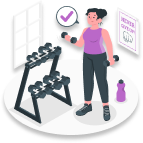
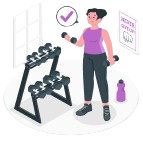
Added BMI Calculator Functionality
- Added dynamic interface for BMI calculation including age, weight, height, and gender inputs.
- Created functions for initializing the calculator, updating values, and calculating BMI with results displayed.
- Updated dashboard.html to link to the new BMI calculator interface.
- Replaced BMI image with updated version in the images directory.

diff --git a/jscript/alert.js b/jscript/alert.js
@@ -325,3 +325,262 @@ window.AlertFunctions = {
     showAIAnalysis,
     saveResults
 };
+
+/* ---------------------------------------------------- */
+/* BMI Calculator Functions - Dynamic Interface */
+/* ---------------------------------------------------- */
+
+/**
+ * Initialize BMI Calculator display
+ */
+function initializeBMICalculator() {
+    const diagnosisList = document.getElementById('diagnosisList');
+    if (!diagnosisList) {
+        console.error('Diagnosis list container not found');
+        return;
+    }
+
+    // Clear existing content
+    diagnosisList.innerHTML = '';
+    
+    // Create BMI calculator interface
+    createBMIInterface();
+}
+
+/**
+ * Create the complete BMI calculator interface
+ */
+function createBMIInterface() {
+    const diagnosisList = document.getElementById('diagnosisList');
+    
+    // BMI State - Updated default values
+    const bmiState = {
+        age: 25,
+        weight: 65,
+        height: 170,
+        isMale: false
+    };
+
+    // Create Age and Weight Grid
+    const ageWeightGrid = createAgeWeightGrid(bmiState);
+    diagnosisList.appendChild(ageWeightGrid);
+
+    // Create Height Card
+    const heightCard = createHeightCard(bmiState);
+    diagnosisList.appendChild(heightCard);
+
+    // Create Gender Card
+    const genderCard = createGenderCard(bmiState);
+    diagnosisList.appendChild(genderCard);
+
+    // Create Calculate Button
+    const calculateButton = createCalculateButton(bmiState);
+    diagnosisList.appendChild(calculateButton);
+}
+
+/**
+ * Create Age and Weight grid cards
+ */
+function createAgeWeightGrid(bmiState) {
+    const gridContainer = document.createElement('div');
+    gridContainer.className = 'col-span-2 grid grid-cols-2 gap-4 mb-4';
+
+    // Age Card - Added black border
+    const ageCard = document.createElement('div');
+    ageCard.className = 'bg-teal-500 border-2 border-black rounded-xl p-6 text-white text-center';
+    ageCard.innerHTML = `
+        <label class="block text-sm font-medium mb-4">Age</label>
+        <div id="ageValue" class="text-4xl font-bold mb-4">${bmiState.age}</div>
+        <div class="flex justify-center items-center space-x-6">
+            <button id="ageDecrement" class="w-10 h-10 bg-teal-600 rounded-lg flex items-center justify-center hover:bg-teal-700 transition">
+                <i class="fas fa-minus text-lg"></i>
+            </button>
+            <button id="ageIncrement" class="w-10 h-10 bg-teal-600 rounded-lg flex items-center justify-center hover:bg-teal-700 transition">
+                <i class="fas fa-plus text-lg"></i>
+            </button>
+        </div>
+    `;
+
+    // Weight Card - Added black border
+    const weightCard = document.createElement('div');
+    weightCard.className = 'bg-teal-500 border-2 border-black rounded-xl p-6 text-white text-center';
+    weightCard.innerHTML = `
+        <label class="block text-sm font-medium mb-4">Weight(KG)</label>
+        <div id="weightValue" class="text-4xl font-bold mb-4">${bmiState.weight}</div>
+        <div class="flex justify-center items-center space-x-6">
+            <button id="weightDecrement" class="w-10 h-10 bg-teal-600 rounded-lg flex items-center justify-center hover:bg-teal-700 transition">
+                <i class="fas fa-minus text-lg"></i>
+            </button>
+            <button id="weightIncrement" class="w-10 h-10 bg-teal-600 rounded-lg flex items-center justify-center hover:bg-teal-700 transition">
+                <i class="fas fa-plus text-lg"></i>
+            </button>
+        </div>
+    `;
+
+    gridContainer.appendChild(ageCard);
+    gridContainer.appendChild(weightCard);
+
+    // Add event listeners for age
+    setTimeout(() => {
+        document.getElementById('ageDecrement').addEventListener('click', () => {
+            if (bmiState.age > 1) {
+                bmiState.age--;
+                document.getElementById('ageValue').textContent = bmiState.age;
+            }
+        });
+        document.getElementById('ageIncrement').addEventListener('click', () => {
+            if (bmiState.age < 120) {
+                bmiState.age++;
+                document.getElementById('ageValue').textContent = bmiState.age;
+            }
+        });
+
+        // Add event listeners for weight
+        document.getElementById('weightDecrement').addEventListener('click', () => {
+            if (bmiState.weight > 1) {
+                bmiState.weight--;
+                document.getElementById('weightValue').textContent = bmiState.weight;
+            }
+        });
+        document.getElementById('weightIncrement').addEventListener('click', () => {
+            if (bmiState.weight < 300) {
+                bmiState.weight++;
+                document.getElementById('weightValue').textContent = bmiState.weight;
+            }
+        });
+    }, 10);
+
+    return gridContainer;
+}
+
+/**
+ * Create Height card with slider
+ */
+function createHeightCard(bmiState) {
+    const heightCard = document.createElement('div');
+    heightCard.className = 'col-span-2 bg-teal-500 border-2 border-black rounded-xl p-6 text-white mb-4';
+    heightCard.innerHTML = `
+        <label class="block text-sm font-medium mb-4 text-center">Height (CM)</label>
+        <div id="heightValue" class="text-4xl font-bold mb-6 text-center">${bmiState.height}</div>
+        <div class="relative">
+            <input type="range" id="heightSlider" min="50" max="300" value="${bmiState.height}" class="w-full h-2 bg-teal-600 rounded-lg appearance-none cursor-pointer">
+            <div class="flex justify-between text-sm mt-2">
+                <span>50 cm</span>
+                <span>300 cm</span>
+            </div>
+        </div>
+    `;
+
+    // Add event listener for height slider
+    setTimeout(() => {
+        document.getElementById('heightSlider').addEventListener('input', (e) => {
+            bmiState.height = parseInt(e.target.value);
+            document.getElementById('heightValue').textContent = bmiState.height;
+        });
+    }, 10);
+
+    return heightCard;
+}
+
+/**
+ * Create Gender card with switch
+ */
+function createGenderCard(bmiState) {
+    const genderCard = document.createElement('div');
+    genderCard.className = 'col-span-2 bg-teal-500 border-2 border-black rounded-xl p-6 text-white mb-4';
+    genderCard.innerHTML = `
+        <label class="block text-sm font-medium mb-4 text-center">Gender</label>
+        <div class="flex items-center justify-center space-x-4">
+            <span class="text-lg">Male</span>
+            <div class="relative">
+                <div id="genderSwitch" class="w-16 h-8 bg-teal-600 rounded-full cursor-pointer transition-all duration-300">
+                    <div id="genderToggle" class="w-6 h-6 ${bmiState.isMale ? 'bg-blue-500' : 'bg-pink-500'} rounded-full mt-1 ml-1 transition-transform duration-300 ease-in-out ${bmiState.isMale ? '' : 'transform translate-x-8'}"></div>
+                </div>
+            </div>
+            <span class="text-lg">Female</span>
+        </div>
+    `;
+
+    // Add event listener for gender switch
+    setTimeout(() => {
+        document.getElementById('genderSwitch').addEventListener('click', () => {
+            bmiState.isMale = !bmiState.isMale;
+            const toggle = document.getElementById('genderToggle');
+            if (bmiState.isMale) {
+                toggle.className = 'w-6 h-6 bg-blue-500 rounded-full mt-1 ml-1 transition-transform duration-300 ease-in-out';
+            } else {
+                toggle.className = 'w-6 h-6 bg-pink-500 rounded-full mt-1 ml-1 transition-transform duration-300 ease-in-out transform translate-x-8';
+            }
+        });
+    }, 10);
+
+    return genderCard;
+}
+
+/**
+ * Create Calculate BMI button
+ */
+function createCalculateButton(bmiState) {
+    const button = document.createElement('button');
+    button.className = 'col-span-2 w-full bg-teal-600 hover:bg-teal-700 text-white font-bold py-4 px-6 rounded-xl transition duration-300 text-lg';
+    button.textContent = 'Calculate BMI';
+
+    button.addEventListener('click', () => {
+        calculateBMI(bmiState);
+    });
+
+    return button;
+}
+
+/**
+ * Calculate and display BMI result
+ */
+function calculateBMI(bmiState) {
+    const heightInMeters = bmiState.height / 100;
+    const bmi = (bmiState.weight / (heightInMeters * heightInMeters)).toFixed(1);
+    
+    let category = '';
+    let color = '';
+    
+    if (bmi < 18.5) {
+        category = 'Underweight';
+        color = 'text-blue-400';
+    } else if (bmi < 25) {
+        category = 'Normal';
+        color = 'text-teal-400';
+    } else if (bmi < 30) {
+        category = 'Overweight';
+        color = 'text-yellow-400';
+    } else {
+        category = 'Obese';
+        color = 'text-red-400';
+    }
+
+    // Display result
+    const diagnosisList = document.getElementById('diagnosisList');
+    diagnosisList.innerHTML = `
+        <div class="col-span-2 text-center text-white">
+            <h2 class="text-2xl font-bold mb-4">BMI Result</h2>
+            <div class="bg-teal-500 rounded-xl p-6 mb-4">
+                <div class="text-4xl font-bold mb-2">${bmi}</div>
+                <div class="text-lg ${color} font-semibold">${category}</div>
+                <div class="text-sm mt-2">Age: ${bmiState.age} | Weight: ${bmiState.weight}kg | Height: ${bmiState.height}cm</div>
+                <div class="text-sm">Gender: ${bmiState.isMale ? 'Male' : 'Female'}</div>
+            </div>
+            <button onclick="initializeBMICalculator()" class="bg-teal-600 hover:bg-teal-700 text-white font-bold py-2 px-4 rounded-lg transition duration-300">
+                Recalculate
+            </button>
+        </div>
+    `;
+}
+
+// Export BMI functions for external use
+window.BMIFunctions = {
+    initializeBMICalculator,
+    calculateBMI
+};
+
+/* ---------------------------------------------------- */
+/* Above: BMI Calculator Functions - Dynamic Interface */
+/* Below: Future Functions can be added here */
+/* ---------------------------------------------------- */

diff --git a/pages/box/bmi.html b/pages/box/bmi.html
@@ -1,0 +1,103 @@
+<!DOCTYPE html>
+<html lang="en">
+<head>
+    <meta charset="UTF-8">
+    <meta name="viewport" content="width=device-width, initial-scale=1.0">
+    <title>MedScan - Heart Alert</title>
+    <link href="https://cdn.jsdelivr.net/npm/tailwindcss@2.2.19/dist/tailwind.min.css" rel="stylesheet">
+    <link rel="stylesheet" href="../../css/common.css">
+    <link rel="stylesheet" href="../../css/dashboard.css">
+    <link rel="icon" type="image/png" href="../../images/logo.png" />
+    <link rel="stylesheet" href="https://cdnjs.cloudflare.com/ajax/libs/font-awesome/6.4.0/css/all.min.css" />
+    <link rel="stylesheet" href="https://cdnjs.cloudflare.com/ajax/libs/normalize/5.0.0/normalize.min.css" />
+
+    <!-- Custom Font Imports -->
+    <link href="https://fonts.googleapis.com/css2?family=Open+Sans&family=Poppins:wght@700&family=Montserrat:wght@700&display=swap" rel="stylesheet" />
+</head>
+
+<body class="bg-[#f1f7ed]">
+    <div class="app-wrapper">
+      <!-- App Content -->
+      <div id="app-content" class="container mx-auto -px-10 -py-10 max-w-screen-lg">
+        <!-- Section 1 - Header -->
+        <section>
+            <header class="bg-transparent flex items-center justify-between px-3 py-4">
+                <a href="/pages/dashboard.html" class="text-white md:text-lg">
+                  <i class="fas fa-arrow-left"></i>
+                </a>
+                <h1 class="text-4xl mx-8 text-center font-bold">BMI Calculator</h1> 
+                <img src="../../images/bmi/bmi.png" class="w-32 h-32" />
+              </header>
+
+              <div class="px-6 py-8 space-y-6">
+                <!-- Age and Weight Grid -->
+                <div class="grid grid-cols-2 gap-4">
+                  <!-- Age Card -->
+                  <div class="bg-teal rounded-xl p-6 text-white text-center">
+                    <label class="block text-sm font-medium mb-4">Age</label>
+                    <div class="text-4xl font-bold mb-4">21</div>
+                    <div class="flex justify-center items-center space-x-6">
+                      <button class="w-10 h-10 bg-teal-600 rounded-lg flex items-center justify-center hover:bg-teal-700 transition">
+                        <i class="fas fa-minus text-lg"></i>
+                      </button>
+                      <button class="w-10 h-10 bg-teal-600 rounded-lg flex items-center justify-center hover:bg-teal-700 transition">
+                        <i class="fas fa-plus text-lg"></i>
+                      </button>
+                    </div>
+                  </div>
+
+                  <!-- Weight Card -->
+                  <div class="bg-teal rounded-xl p-6 text-white text-center">
+                    <label class="block text-sm font-medium mb-4">Weight(KG)</label>
+                    <div class="text-4xl font-bold mb-4">71</div>
+                    <div class="flex justify-center items-center space-x-6">
+                      <button class="w-10 h-10 bg-teal-600 rounded-lg flex items-center justify-center hover:bg-teal-700 transition">
+                        <i class="fas fa-minus text-lg"></i>
+                      </button>
+                      <button class="w-10 h-10 bg-teal-600 rounded-lg flex items-center justify-center hover:bg-teal-700 transition">
+                        <i class="fas fa-plus text-lg"></i>
+                      </button>
+                    </div>
+                  </div>
+                </div>
+
+                <!-- Height Card -->
+                <div class="bg-teal rounded-xl p-6 text-white">
+                  <label class="block text-sm font-medium mb-4 text-center">Height (CM)</label>
+                  <div class="text-4xl font-bold mb-6 text-center">150</div>
+                  <div class="relative">
+                    <input type="range" min="50" max="300" value="150" class="w-full h-2 bg-teal-600 rounded-lg appearance-none cursor-pointer slider">
+                    <div class="flex justify-between text-sm mt-2">
+                      <span>50 cm</span>
+                      <span>300 cm</span>
+                    </div>
+                  </div>
+                </div>
+
+                <!-- Gender Card -->
+                <div class="bg-teal rounded-xl p-6 text-white">
+                  <label class="block text-sm font-medium mb-4 text-center">Gender</label>
+                  <div class="flex items-center justify-center space-x-4">
+                    <span class="text-lg">Male</span>
+                    <div class="relative">
+                      <div class="w-16 h-8 bg-teal-600 rounded-full cursor-pointer">
+                        <div class="w-6 h-6 bg-blue-500 rounded-full mt-1 ml-1 transition-transform duration-300 ease-in-out"></div>
+                      </div>
+                    </div>
+                    <span class="text-lg">Female</span>
+                  </div>
+                </div>
+
+                <!-- Calculate Button -->
+                <button class="w-full bg-teal-600 hover:bg-teal-700 text-white font-bold py-4 px-6 rounded-xl transition duration-300 text-lg">
+                  Calculate BMI
+                </button>
+              </div>
+        </section>
+        <!-- End of Section 1 -->
+      </div>
+    </div>
+
+    <script type="module" src="../../jscript/alert.js"></script>
+</body>
+</html>

diff --git a/pages/dashboard.html b/pages/dashboard.html
@@ -292,7 +292,7 @@
                 </div>
                 
                 <!-- Card 4 - Body Mass Index -->
-                <div class="health-card bg-white rounded-lg p-4 text-center shadow-sm hover:shadow-md transition-all duration-300 cursor-pointer">
+                <div id="bmi-card" class="health-card bg-white rounded-lg p-4 text-center shadow-sm hover:shadow-md transition-all duration-300 cursor-pointer" data-page="bmi" onclick="window.location.href='./box/bmi.html'">
                   <div class="card-icon flex justify-center mb-2">
                     <img src="../../images/bmi.png" alt="Body Mass Index" class="w-16 h-16">
                   </div>
